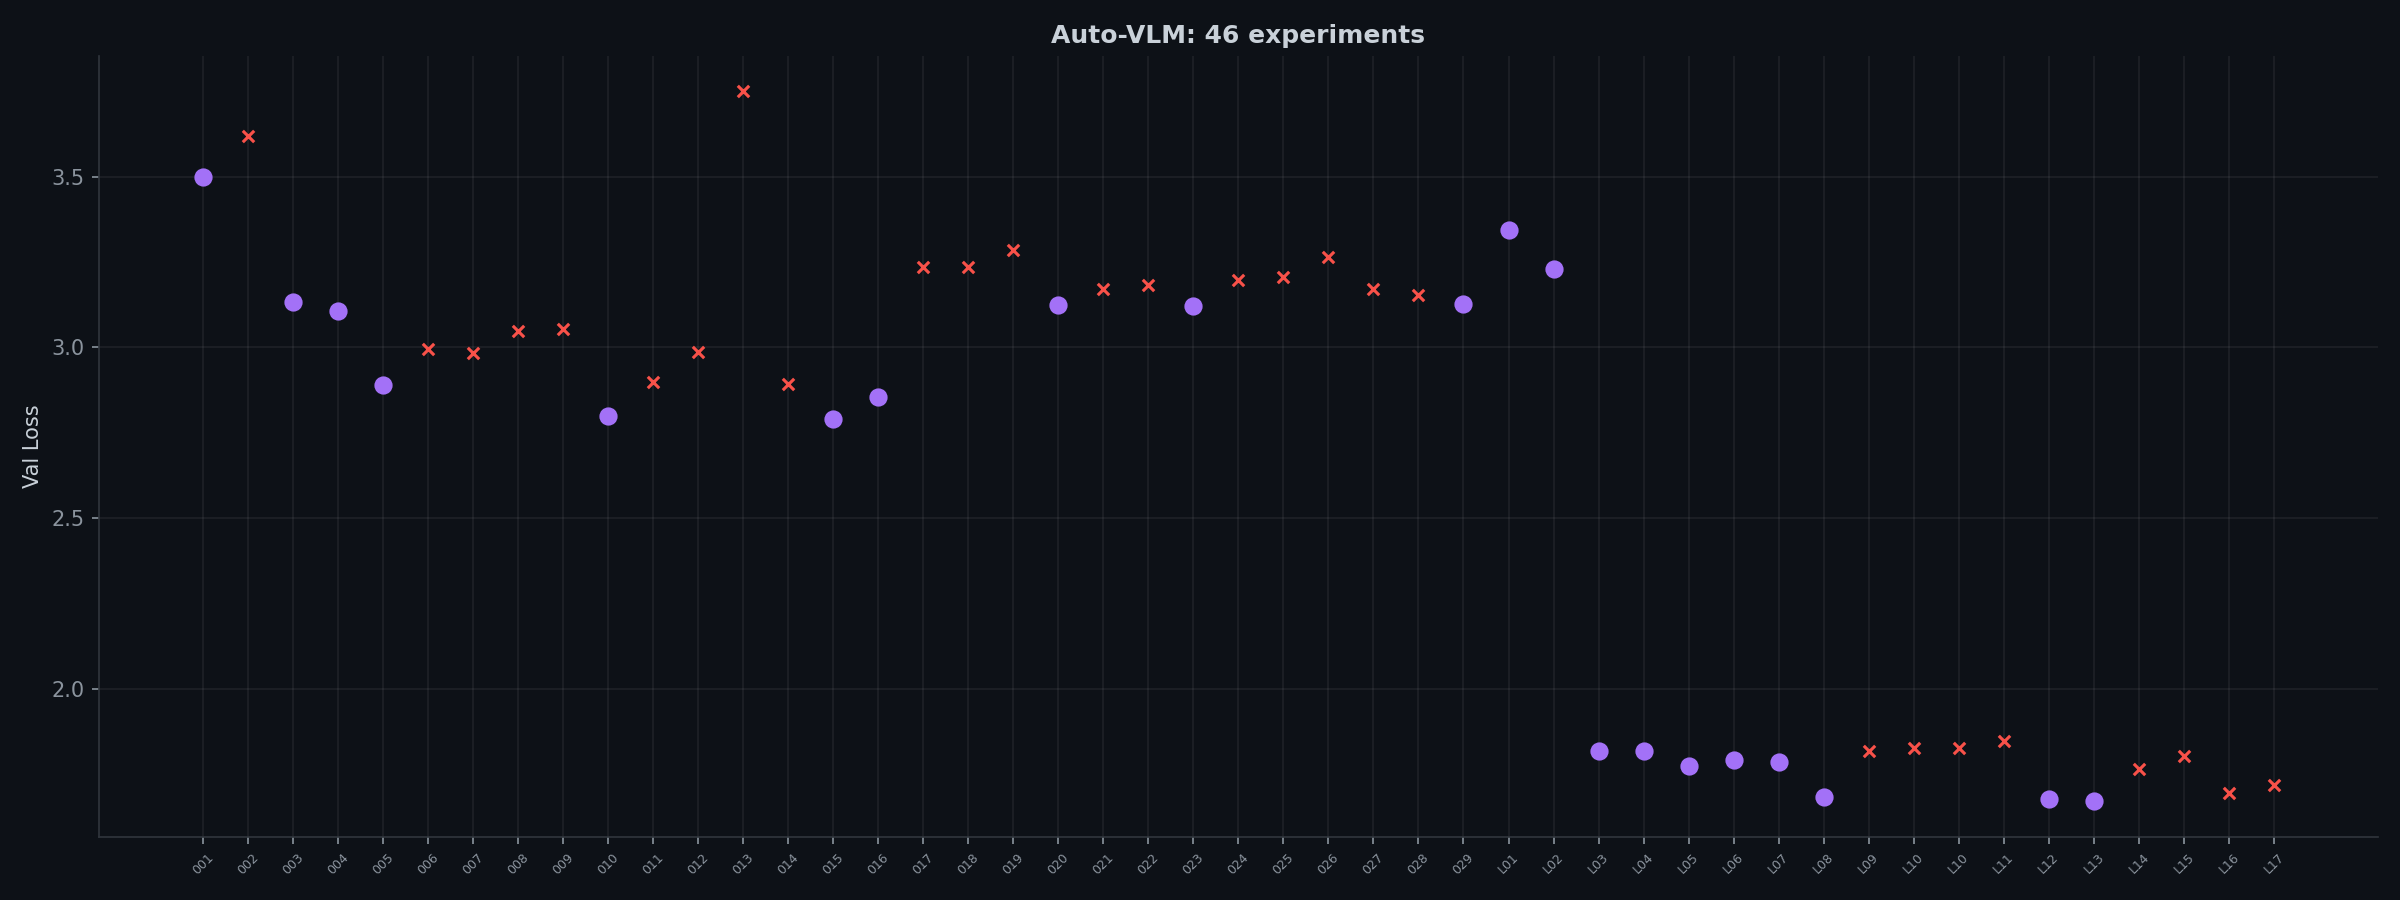
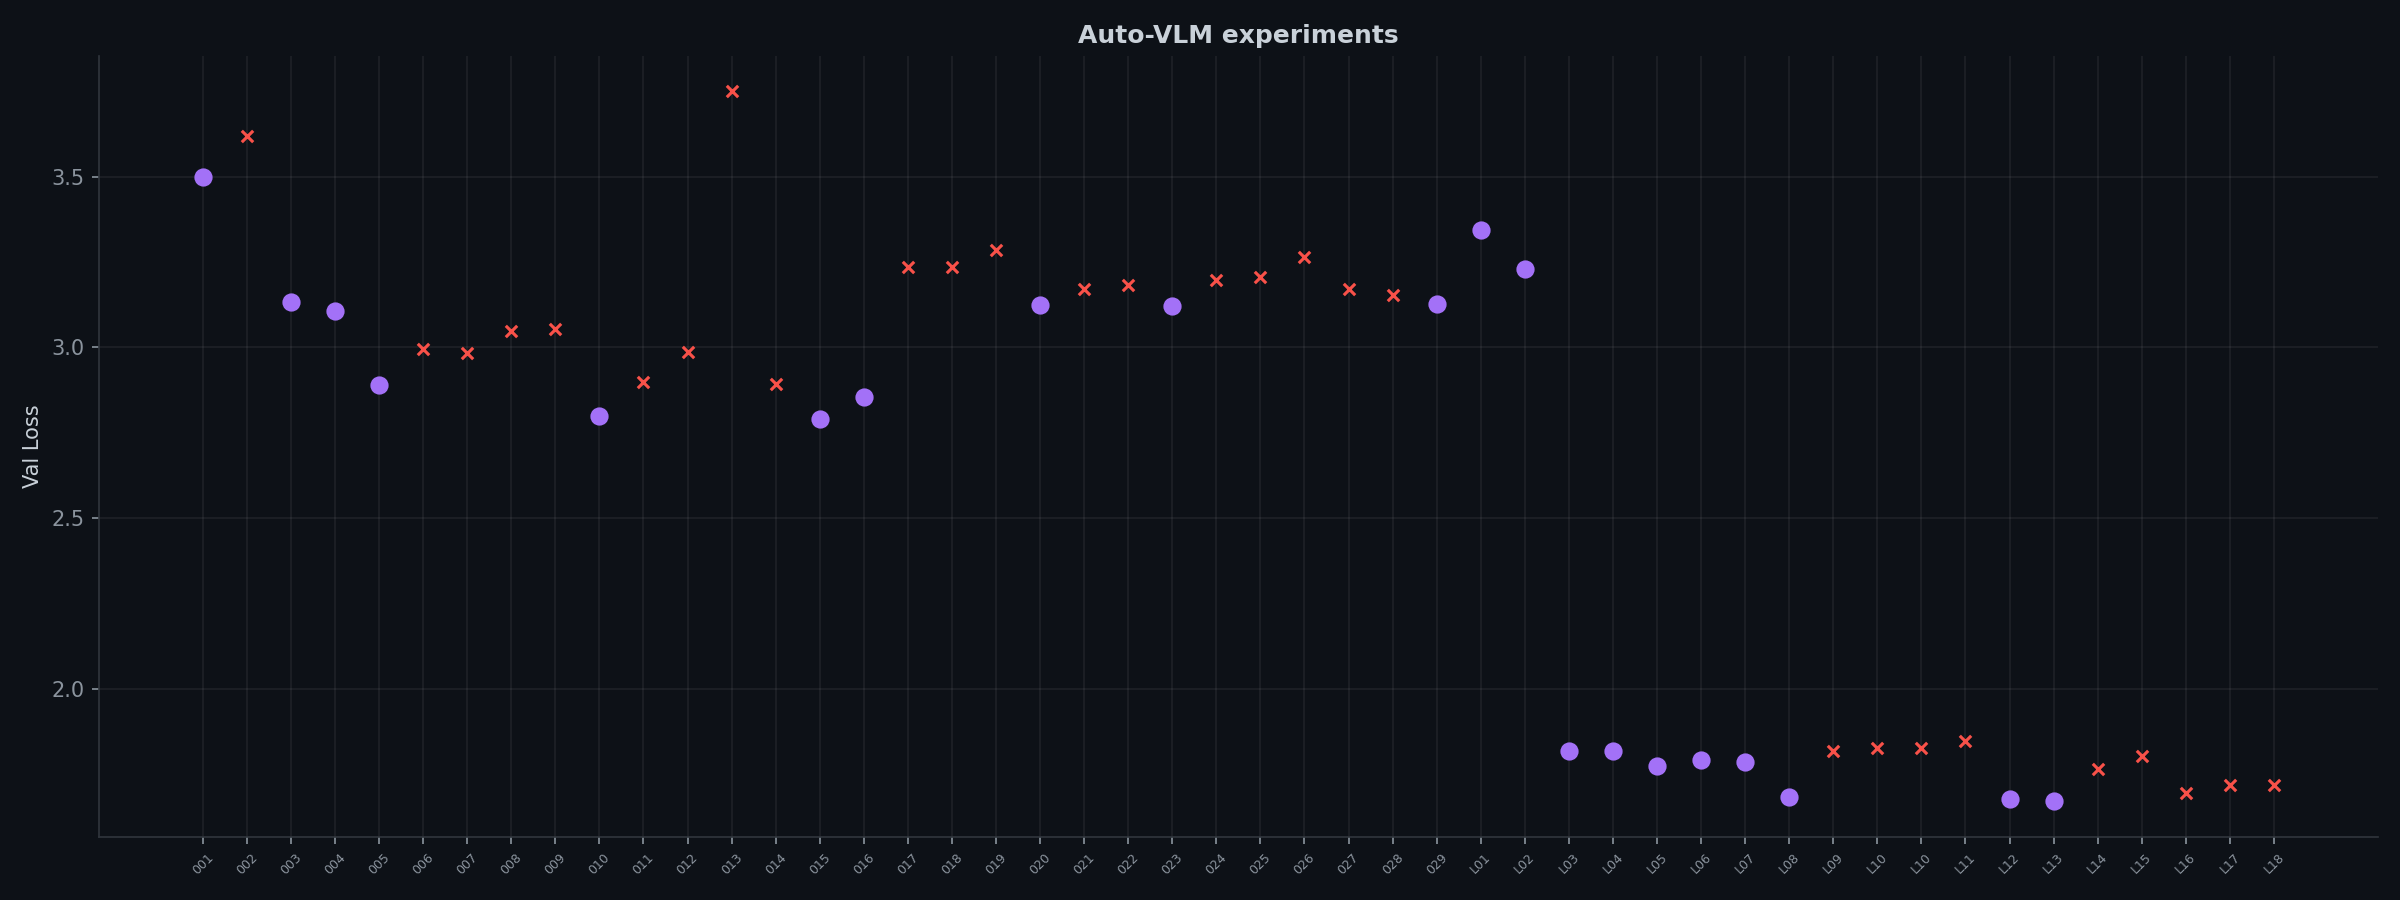
L18: SigLIP+Qwen1.5B 4hr val=1.7197765868902206 (discard) + metrics + samples

diff --git a/train_lora.py b/train_lora.py
@@ -55,7 +55,7 @@ class Config:
     weight_decay: float = 0.01
     warmup_steps: int = 100
     grad_clip: float = 1.0
-    time_budget: int = 7200  # 60 min
+    time_budget: int = 14400  # 60 min
 
     # Computed
     num_patches: int = 0
